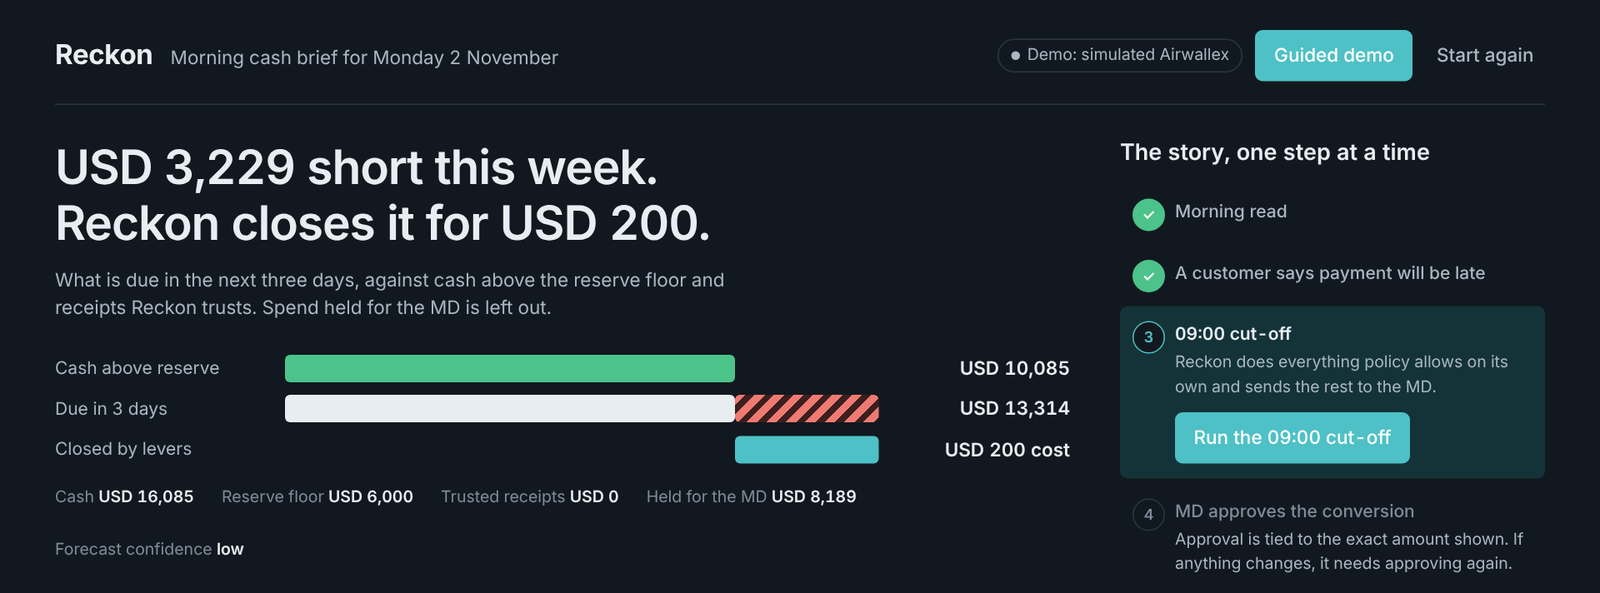
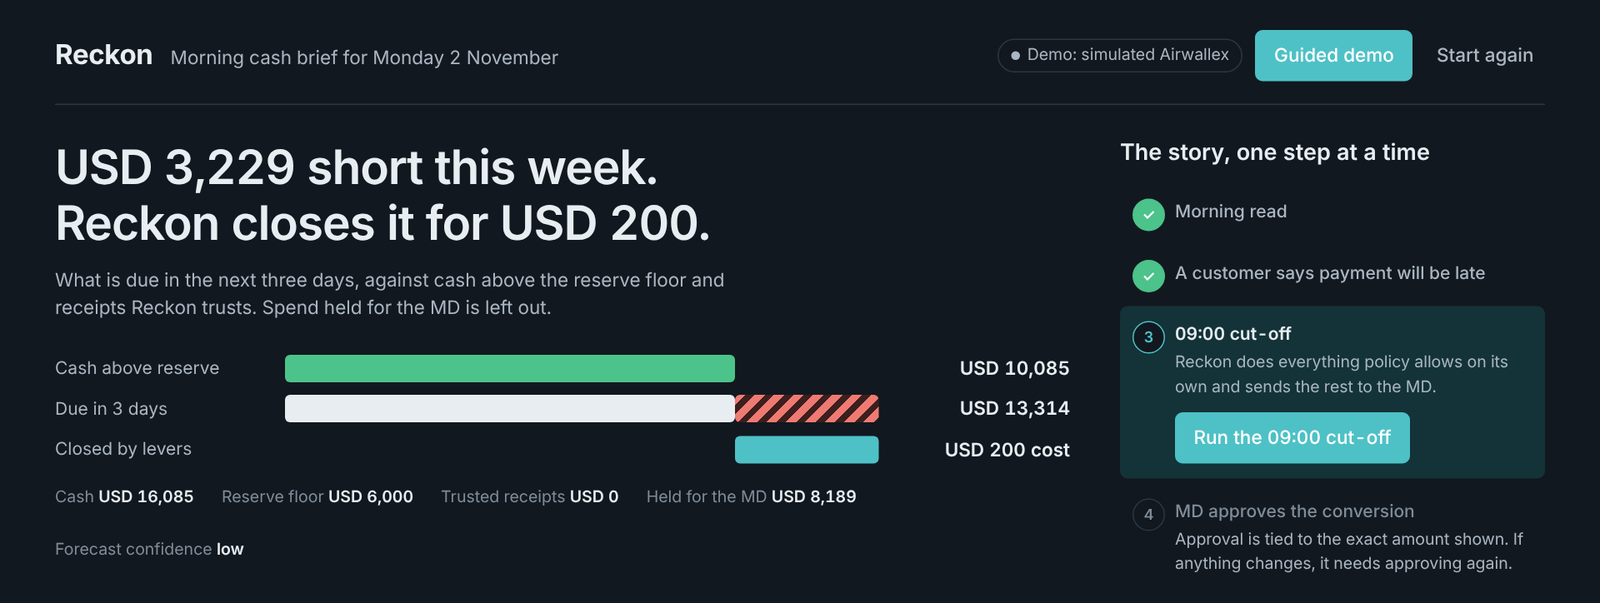
README: full-width screenshots and a cleaner hero crop
Claude-Session: https://claude.ai/code/session_01Ky515jQfbD1Xk9HzofmGxk

diff --git a/README.md b/README.md
@@ -25,9 +25,13 @@ Most treasury agents decide who doesn't get paid. Reckon also goes and gets mone
 
 Every decision can be replayed from its stored inputs to the identical answer.
 
-| When a fact changes, it shows only the decisions that moved | An approval covers the exact numbers shown, and nothing else |
-| :---: | :---: |
-| <img src="docs/readme/changes.png" alt="What just happened: Westfield's milestone slips, forecast confidence is now low, and six decisions changed, each listed as new, changed or dropped." width="100%"> | <img src="docs/readme/approval.png" alt="The MD's brief: one paragraph on the cash position, a held EUR 7,500 payment, and a EUR 3,412.85 conversion with an 'Approve exactly this' button." width="100%"> |
+**When a fact changes, it shows only the decisions that moved.**
+
+<img src="docs/readme/changes.png" alt="What just happened: Westfield's milestone slips, forecast confidence is now low, and six decisions changed, each listed as new, changed or dropped." width="100%">
+
+**An approval covers the exact numbers shown, and nothing else.**
+
+<img src="docs/readme/approval.png" alt="The MD's brief: one paragraph on the cash position, a held EUR 7,500 payment, and a EUR 3,412.85 conversion with an 'Approve exactly this' button." width="100%">
 
 ## For judges
 
